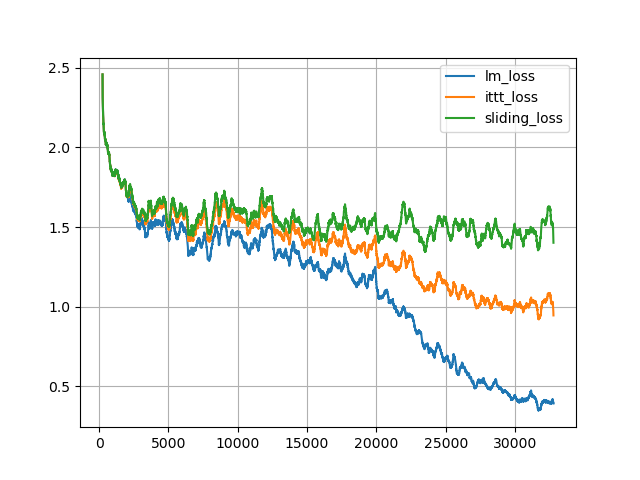
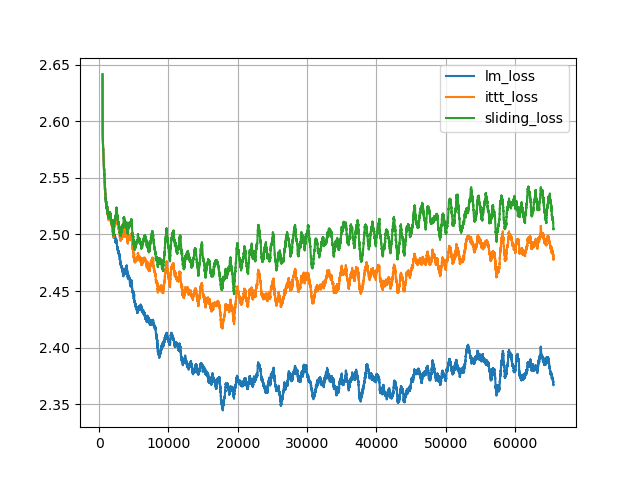
compare to dense

diff --git a/src/compare_to_dense.py b/src/compare_to_dense.py
@@ -150,6 +150,13 @@ def main():
         )
 
 
+def nan_mean(x):
+    mask = np.isfinite(x)
+    s = mask.sum(0)
+    x = np.where(mask, x, np.zeros_like(x))
+    return x.sum(0) / s
+
+
 def analyze_results():
 
     lm_losses = torch.load(os.path.join(constants.LOCAL_DATA_PATH, "lm_losses.pt")).float().numpy()
@@ -161,15 +168,15 @@ def analyze_results():
     sliding_losses = sliding_losses.float().numpy()
 
     df = pd.DataFrame({
-        "lm_loss": lm_losses.mean(0),
-        "ittt_loss": ittt_losses.mean(0),
-        "sliding_loss": sliding_losses.mean(0),
+        "lm_loss": nan_mean(lm_losses),
+        "ittt_loss": nan_mean(ittt_losses),
+        "sliding_loss": nan_mean(sliding_losses),
     })
 
     for col in df.columns:
 
         x = np.arange(len(df[col]))
-        y_running = df[col].rolling(window=250)
+        y_running = df[col].rolling(window=500)
         
         plt.plot(x, y_running.mean(), label=col)
     
@@ -179,5 +186,5 @@ def analyze_results():
 
 
 if __name__ == "__main__":
-    main()
+    # main()
     analyze_results()
